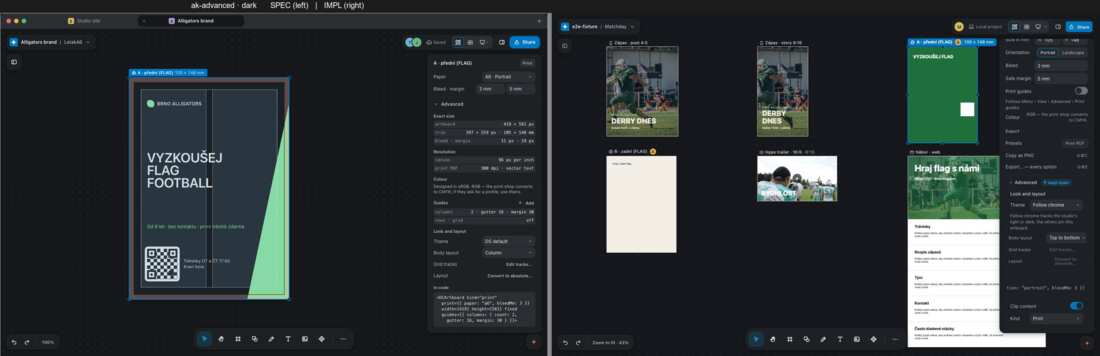
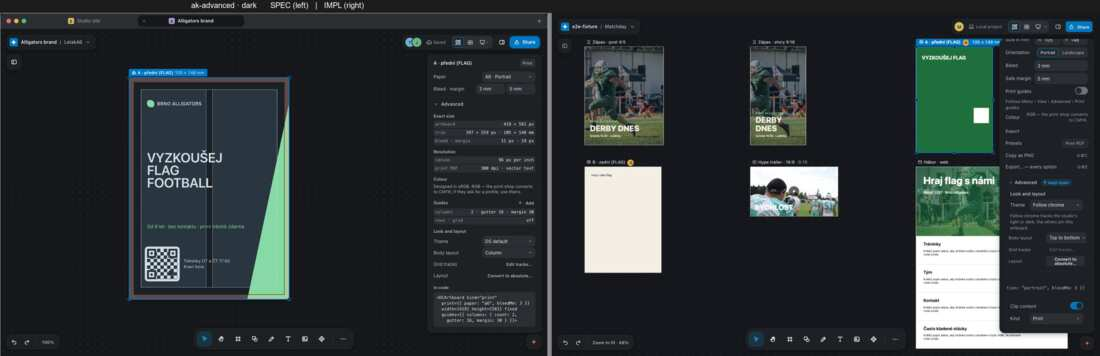
P8 c10-print: re-shot ak-print-view, ak-advanced, co-comment-print, an-print (light + dark) + fix notes

diff --git a/.ai/plans/notes/v2-evidence/phase8-fidelity/10-share-and-collaboration/fix-c7-oboard.md b/.ai/plans/notes/v2-evidence/phase8-fidelity/10-share-and-collaboration/fix-c7-oboard.md
@@ -8,3 +8,13 @@ Budget went to 09 (Include row, job rows, batch harness, handoff sub line); noth
 - **co-trashed** — the two-line ghost row. `canvases-panel.jsx` ~905 draws name and sub in one flex line inside a fixed-height virtual row; a two-line row needs the row height to grow for ghost rows (the virtual list's row-height source, owned by 11) — a layout change in the list, not a CSS tweak. The Edit cluster kept while the open canvas is trashed is `setTrashedOpen` (the Share cluster's mode lane goes to Viewing) — a product decision (the board keeps Edit; the server refuses the writes anyway).
 - **co-conflict** — the decision card on the canvas under the pair, "Keep both" attached, no ×: today a top banner over the Canvases panel; the card has to be anchored in canvas space (a canvas-lib overlay) from the conflict's two artboard rects.
 - **co-comment-video** — the timeline strip with comment markers and "2 comments on this video": a new strip under the clip (video canvas) reading comments by time.
+
+## Round 10 (p8-c10-print) — done / open
+
+Done (fail-first tests `p8-c10-print-outside.test.tsx`, `v2-inspector-print.test.tsx`, `edit-layout-client.test.tsx`):
+- One un-clipped print layer: `registerKindOutsideOverlay` in `artboard-guides-overlay.tsx` mounts a second `.dc-artboard-guides.dc-artboard-guides--outside` layer (same rect, no clip, hidden by every exporter through the shared class); `print-overlay-content.tsx` registers the dashed print-area outline, four crop marks and the legend "Bleed N mm · trim · safe margin M mm" (the artboard's own numbers) — shown with the print guides, screen-sized at any zoom.
+- 08 ak-advanced: Layout · Convert to absolute… is enabled whenever the sheet is editable and an artboard selection converts the artboard body (`layout-actions.ts` -> `__maudeConvertArtboard`).
+Re-shot: co-comment-print (light + dark).
+
+Open:
+- The legend sits under EVERY print sheet with guides on (the board draws it once under the second sheet); the crop marks and outline are the product's own, the board draws none here.

diff --git a/.ai/plans/notes/v2-evidence/phase8-fidelity/15-annotations/fix-c7-oboard.md b/.ai/plans/notes/v2-evidence/phase8-fidelity/15-annotations/fix-c7-oboard.md
@@ -67,3 +67,13 @@ an-section (lilac section, framed whole) · an-today (the whole catalogue seeded
 - `decision:maude/v2-p8-c8-ann-toolbar-more-menu`: one `ToolbarMore` "…" word menu ends every selection toolbar; an arrow's widths / Two-way / Dashed live in it (the board draws none of them on the bar) while shapes keep Dashed and widths — rejected: dropping them (nothing-deleted), a separate arrow-options popover.
 - `decision:maude/v2-p8-c8-ann-hidden-toast-follows-layer`: the shell dismisses the toast whenever the layer is visible again — rejected: a harness-only fix (a real person sees the stale sentence for 10 s).
 - `decision:maude/v2-p8-c8-ann-lod-section-tone`: the crowd's section block and count chip use the section's own colour — rejected: neutral rgba blocks (invisible on dark).
+
+## Round 10 (p8-c10-print) — done / open
+
+Done (fail-first tests `p8-c10-print-outside.test.tsx`, `v2-inspector-print.test.tsx`, `edit-layout-client.test.tsx`):
+- One un-clipped print layer: `registerKindOutsideOverlay` in `artboard-guides-overlay.tsx` mounts a second `.dc-artboard-guides.dc-artboard-guides--outside` layer (same rect, no clip, hidden by every exporter through the shared class); `print-overlay-content.tsx` registers the dashed print-area outline, four crop marks and the legend "Bleed N mm · trim · safe margin M mm" (the artboard's own numbers) — shown with the print guides, screen-sized at any zoom.
+- 08 ak-advanced: Layout · Convert to absolute… is enabled whenever the sheet is editable and an artboard selection converts the artboard body (`layout-actions.ts` -> `__maudeConvertArtboard`).
+Re-shot: an-print (light + dark).
+
+Open:
+- The print-area outline and crop marks only show while View > Print guides is on (the harness switches it on); the note ghost (.88) was already in the product (`time-pins.tsx` `data-unprinted`), the shot shows it subtly.

diff --git a/.ai/plans/notes/v2-evidence/phase8-fidelity/08-artboard-kinds/fix-c10-print.md b/.ai/plans/notes/v2-evidence/phase8-fidelity/08-artboard-kinds/fix-c10-print.md
@@ -1,0 +1,12 @@
+# 08 Artboard Kinds — round 10 (p8-c10-print)
+
+## Round 10 (p8-c10-print) — done / open
+
+Done (fail-first tests `p8-c10-print-outside.test.tsx`, `v2-inspector-print.test.tsx`, `edit-layout-client.test.tsx`):
+- One un-clipped print layer: `registerKindOutsideOverlay` in `artboard-guides-overlay.tsx` mounts a second `.dc-artboard-guides.dc-artboard-guides--outside` layer (same rect, no clip, hidden by every exporter through the shared class); `print-overlay-content.tsx` registers the dashed print-area outline, four crop marks and the legend "Bleed N mm · trim · safe margin M mm" (the artboard's own numbers) — shown with the print guides, screen-sized at any zoom.
+- 08 ak-advanced: Layout · Convert to absolute… is enabled whenever the sheet is editable and an artboard selection converts the artboard body (`layout-actions.ts` -> `__maudeConvertArtboard`).
+Re-shot: ak-print-view, ak-advanced (light + dark).
+
+Open:
+- ak-advanced: Grid tracks · Edit tracks… stays disabled (no print-board track editor; DDR-186's editor is element-level).
+- ak-print-view: the board itself draws no legend on this artboard (only ak-convert-after and 10 co-comment-print do); the product now draws it under each sheet while the guides are on.

diff --git a/.ai/plans/notes/v2-evidence/phase8-fidelity/08-artboard-kinds/INDEX.md b/.ai/plans/notes/v2-evidence/phase8-fidelity/08-artboard-kinds/INDEX.md
@@ -260,3 +260,10 @@ Final verification shoot after stage C round 8, on the merged tip feat/maude-v2 
 | ak-picker-custom (extra impl frame, no board artboard) | shot into impl only, no spec, no pair | shot into impl only, no pair |
 
 Totals: 36 id×theme re-shot (18 ids), 2 unreachable (1 id). Still open per `fix-c8-misc2.md`: ak-advanced Grid tracks / Convert to absolute drawn disabled; the Safe zones menu is cut off at the card foot when the card has little under the row.
+
+## Round 10 (p8-c10-print) — after
+
+| artboard id | after (round 10) |
+|---|---|
+| ak-print-view | re-shot (Menu > View > Advanced > Print guides on): every print artboard now draws the dashed print-area outline, the four crop marks and the legend "Bleed 3 mm · trim · safe margin 5 mm" under the sheet, on the un-clipped print layer (`artboard-guides-overlay.tsx` outside registry, `print-overlay-content.tsx`) |
+| ak-advanced | re-shot: Layout · "Convert to absolute…" is live (it was greyed while no body layout was read: a print sheet with no `layout` prop is the plain "Top to bottom" flow); an artboard selection now converts the artboard's body (`editing/layout-actions.ts`). Grid tracks · "Edit tracks…" stays disabled (no print-board track editor) |

diff --git a/.ai/plans/notes/v2-evidence/phase8-fidelity/10-share-and-collaboration/INDEX.md b/.ai/plans/notes/v2-evidence/phase8-fidelity/10-share-and-collaboration/INDEX.md
@@ -206,3 +206,9 @@ Every reachable id re-shot, light + dark, IMPL side only, on the merged tip `fea
 | co-share-advanced | re-shot | re-shot | pair uses the tall 1040 px frame (`co-share-advanced-tall`, `s10e`) |
 | co-follow, co-bring, co-spotlight, co-twelve | unreachable | unreachable | need N live Yjs awareness peers (unchanged) |
 | co-mention-notify | unreachable | unreachable | OS banner + hub mention e-mail template are not in the lane (unchanged) |
+
+## Round 10 (p8-c10-print) — after
+
+| artboard id | after (round 10) |
+|---|---|
+| co-comment-print | re-shot (View > Print guides on): the legend "Bleed 3 mm · trim · safe margin 5 mm" under each print sheet, the dashed print-area outline and the crop marks now draw on the un-clipped print layer |

diff --git a/.ai/plans/notes/v2-evidence/phase8-fidelity/15-annotations/INDEX.md b/.ai/plans/notes/v2-evidence/phase8-fidelity/15-annotations/INDEX.md
@@ -403,3 +403,9 @@ Shot on the Mac mini (`scripts/remote-lane.sh`) with its installed Google Chrome
 | `an-vote` | light | re-shot | spec reused (board unchanged since the stage-A shot) |
 | `an-vs` | dark | re-shot | spec reused (board unchanged since the stage-A shot) |
 | `an-vs` | light | re-shot | spec reused (board unchanged since the stage-A shot) |
+
+## Round 10 (p8-c10-print) — after
+
+| artboard id | after (round 10) |
+|---|---|
+| an-print | re-shot with View > Print guides on: the dashed print-area outline, the four crop marks and the bleed/trim/margin guides draw round each print sheet (un-clipped print layer); the note over the sheet keeps its .88 ghosting and the "Not printed" pill |
